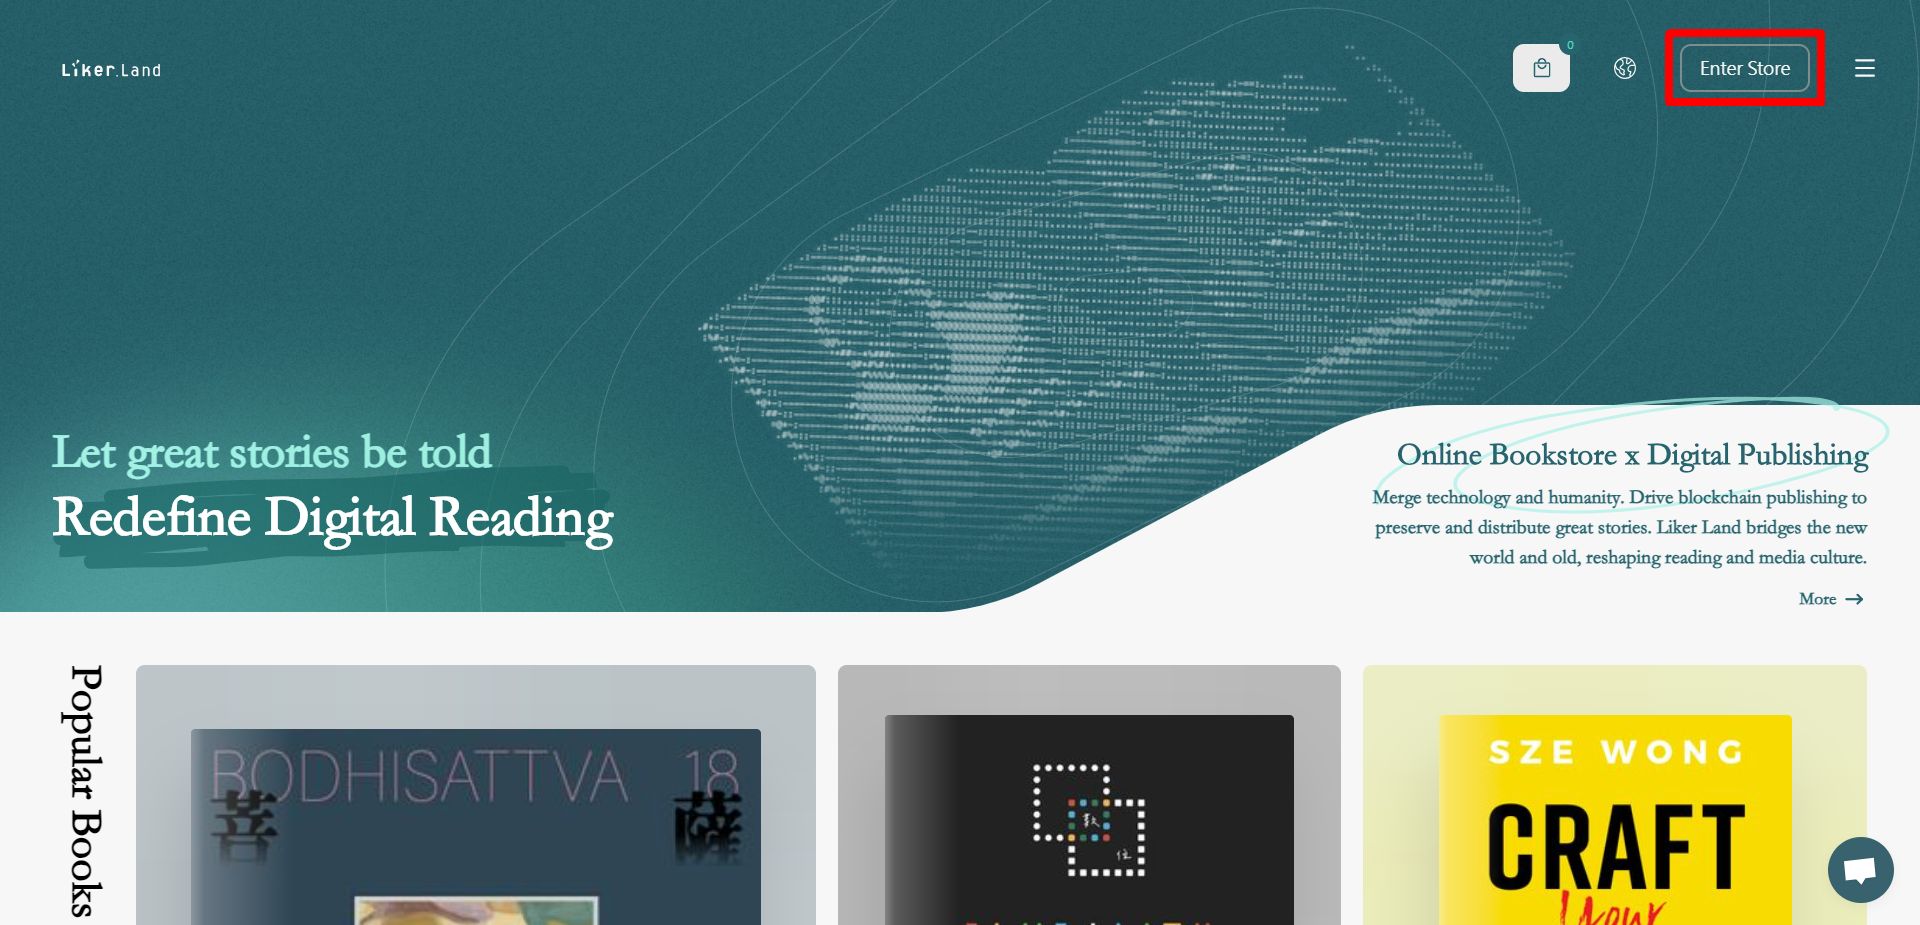
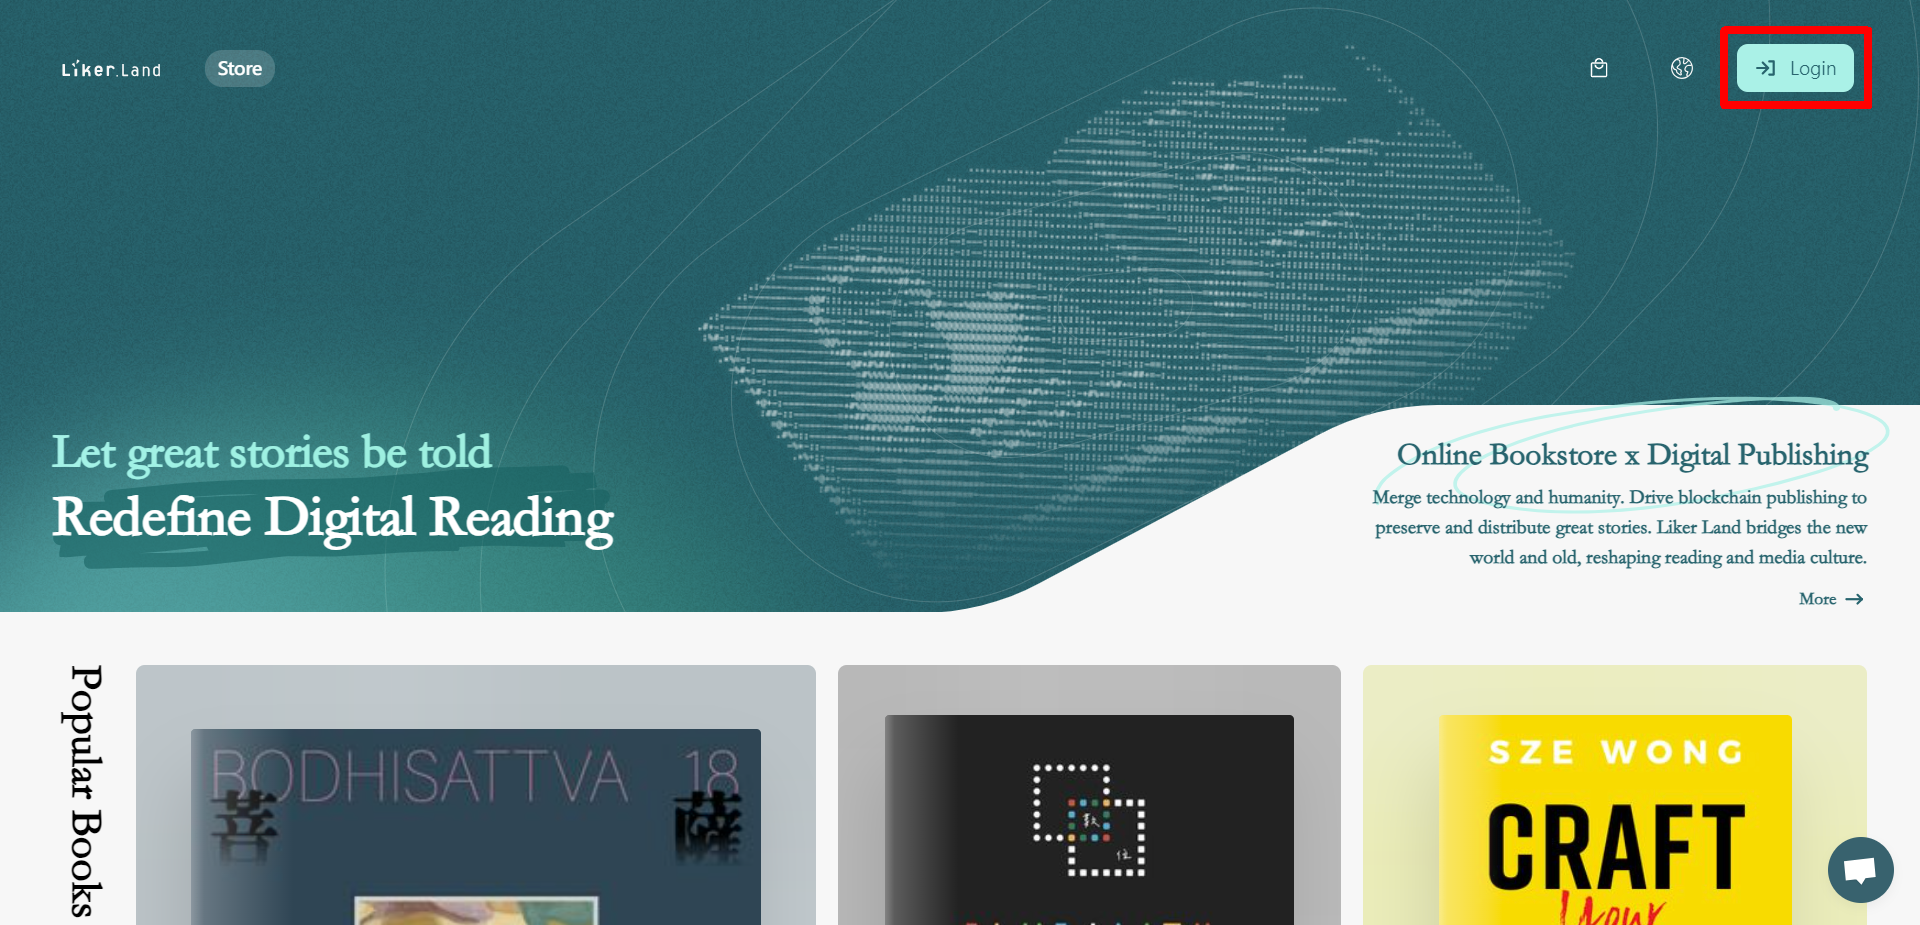
GITBOOK-4672: FAQ: Listing ebooks

Changed region(s): [[0.7812, 0.0303, 1.0, 0.1211], [0.0938, 0.0605, 0.1562, 0.0908]]

diff --git a/depub/transfer-writing-nft.md b/depub/transfer-writing-nft.md
@@ -1,0 +1,79 @@
+---
+description: Transfer NFT is easy!
+---
+
+# Transfer NFT
+
+You can transfer your favorite NFT eBooks or Writing NFTs to others.
+
+Users can leave a message when gifting a NFT eBook or Writing NFT to the recipient. The message is recorded as a transaction memo on the chain and can be stacked during further transfers, forming a “log” of that particular piece of NFT.
+
+Transferring NFT is demonstrated as follows:
+
+## Step 1: Login and transfer
+
+Log in to [Liker Land](https://liker.land/) with your [Email/Social](../user-guide/liker-id/register/), [Keplr](../general-guides/wallet/keplr/), [Cosmostation](../general-guides/wallet/cosmostation/), [Leap](../general-guides/wallet/leap/), [Keplr mobile](../general-guides/wallet/keplr-mobile/), [Cosmostation app](../general-guides/wallet/cosmostation-app/cosmostation-app-deposit-and-send-likecoin.md) or [LikerCoin app](../user-guide/liker-land/download.md)...etc. Then, click on the NFT that needs to be transferred and check how many of them you own. Click "Transfer".
+
+<figure><img src="../.gitbook/assets/NFT Transfer 1-en.png" alt=""><figcaption><p>Click "Transfer" to start transferring NFT</p></figcaption></figure>
+
+## Step 2: Enter the recipient's wallet address and Transfer Message
+
+On the Transfer Your NFT page, enter the wallet address of the recipient and the message you want to include. Then, click "Transfer".
+
+<figure><img src="../.gitbook/assets/NFT Transfer 2-en.png" alt=""><figcaption><p>Enter wallet address and transfer message</p></figcaption></figure>
+
+## Step 3: Confirm the transfer
+
+### Email/Social login
+
+No additional confirmation needed.
+
+### Transfer NFT on Keplr
+
+On the Keplr popup window, click "Approve".
+
+<figure><img src="../.gitbook/assets/NFT Transfer 3-en.png" alt=""><figcaption><p>Keplr window pops up click "Approve" to confirm the transfer</p></figcaption></figure>
+
+### Transfer NFT on Cosmostation
+
+On the Cosmostation popup window, click "Confirm".
+
+<figure><img src="../.gitbook/assets/NFT Transfer 3-en (1).png" alt=""><figcaption><p>Cosmostation window pops up click "Confirm" to confirm the transfer</p></figcaption></figure>
+
+### Transfer NFT on Leap
+
+On the Leap popup window, click "Approve".
+
+<figure><img src="../.gitbook/assets/NFT Transfer 11-en.png" alt=""><figcaption><p>Leap window pops up click "Approve" to confirm the transfer</p></figcaption></figure>
+
+### Transfer NFT on Cosmostation app
+
+A signature request will show up on your phone. Click "Confirm" to complete the transfer.
+
+<figure><img src="../.gitbook/assets/NFT Transfer 4-en (1).png" alt=""><figcaption><p>The desktop computer displays the window of Transfer Your NFT</p></figcaption></figure>
+
+<figure><img src="../.gitbook/assets/NFT Transfer 10.png" alt=""><figcaption><p>Cosmostation app window pops up click "Confirm" to confirm the transfer</p></figcaption></figure>
+
+### Transfer NFT on LikeCoin app
+
+A signature request will show up on your phone. Click "Approve" to complete the transfer.
+
+<figure><img src="../.gitbook/assets/NFT Transfer 9-en.png" alt=""><figcaption><p>The desktop computer displays the window of Transfer Your NFT</p></figcaption></figure>
+
+<figure><img src="../.gitbook/assets/NFT Transfer 6-en.png" alt=""><figcaption><p>LikeCoin app window pops up click "Approve" to confirm the transfer</p></figcaption></figure>
+
+## Step 4: Successful transfer
+
+A pop-up window will appear indicating that the NFT has been successfully transferred. At the same time, the number of NFTs you own will also change. You can also notify the recipient to confirm that they have received the NFT.
+
+<figure><img src="../.gitbook/assets/NFT Transfer 4-en.png" alt=""><figcaption><p>Successful transfer your NFT</p></figcaption></figure>
+
+Users can view the messages sent previously in the Transfer Message field.
+
+<figure><img src="../.gitbook/assets/NFT Transfer 8.png" alt=""><figcaption><p>View the Transfer Message</p></figcaption></figure>
+
+#### Read More
+
+{% content-ref url="collect-writing-nft/batch.md" %}
+[batch.md](collect-writing-nft/batch.md)
+{% endcontent-ref %}

diff --git a/SUMMARY.md b/SUMMARY.md
@@ -87,7 +87,7 @@
 ## 📕 DePub
 
 * [Decentralized Publishing](depub/decentralized-publishing.md)
-* [Writing NFT FAQ](depub/writing-nft.md)
+* [FAQ: Listing ebooks](depub/faq.md)
 * [Publish ebook](depub/nft-book-press/README.md)
   * [Manage ebooks](depub/nft-book-press/nft-book-store.md)
   * [Manage Book Collection](depub/nft-book-press/collection.md)
@@ -96,13 +96,21 @@
   * [ebooks Replenishment](depub/nft-book-press/replenishment.md)
   * [Modify ebook](depub/nft-book-press/modify.md)
   * [Burn ebook](depub/nft-book-press/burn.md)
-  * [FAQ: Listing Liker Land ebooks](depub/nft-book-press/faq.md)
 * [Purchase ebooks](depub/ebook/README.md)
   * [Gift an ebook](depub/ebook/gift.md)
   * [Other ebook Platforms](depub/ebook/book-platform/README.md)
     * [Terminus Press](depub/ebook/book-platform/terminuspress.md)
     * [Dung Foo Kei](depub/ebook/book-platform/dungfookei.md)
     * [BookForest](depub/ebook/book-platform/bookforest.io.md)
+* [NFT Tools](depub/tools.md)
+* [Transfer NFT](depub/transfer-writing-nft.md)
+* [Liker Land web](depub/liker-land-web/README.md)
+  * [Notifications](depub/liker-land-web/notifications.md)
+  * [NFT Details](depub/liker-land-web/nft-details.md)
+  * [My Dashboard](depub/liker-land-web/dashboard.md)
+  * [My Bookshelf](depub/liker-land-web/bookshelf.md)
+  * [Follow Creators](depub/liker-land-web/follow-creators.md)
+* [Writing NFT FAQ](depub/writing-nft.md)
 * [Publish Writing NFT](depub/nft-portal/README.md)
   * [Email/Social](depub/nft-portal/authcore.md)
   * [Keplr](depub/nft-portal/keplr.md)
@@ -119,15 +127,7 @@
   * [One-Click Collect All Writing NFT](depub/collect-writing-nft/collect-all.md)
   * [Dynamic Pricing](depub/collect-writing-nft/dynamic-pricing.md)
   * [NFT Marketplace](depub/collect-writing-nft/nft-marketplace.md)
-* [Transfer NFT](depub/transfer-writing-nft/README.md)
-  * [Batch send NFT to supporters](depub/transfer-writing-nft/batch.md)
-* [Liker Land web](depub/liker-land-web/README.md)
-  * [Notifications](depub/liker-land-web/notifications.md)
-  * [NFT Details](depub/liker-land-web/nft-details.md)
-  * [My Dashboard](depub/liker-land-web/dashboard.md)
-  * [My Bookshelf](depub/liker-land-web/bookshelf.md)
-  * [Follow Creators](depub/liker-land-web/follow-creators.md)
-* [NFT Tools](depub/tools.md)
+  * [Batch send NFT to supporters](depub/collect-writing-nft/batch.md)
 * [ISCN](depub/what-is-iscn/README.md)
   * [What is the relationship between ISCN and IPFS?](depub/what-is-iscn/iscn-ipfs-relationship.md)
   * [What's the point of decentralization to the content ecosystem?](depub/what-is-iscn/benefits.md)

diff --git a/depub/collect-writing-nft/README.md b/depub/collect-writing-nft/README.md
@@ -92,13 +92,9 @@ Learn more about Email/Social login:
 
 ### Step 3: Check your NFT Collection
 
-Go to the upper right corner of the [Liker Land website](https://liker.land/en) and click "Enter Store".
+Go to the upper right corner of the [Liker Land website](https://liker.land/en) and click "Login".
 
-<figure><img src="../../.gitbook/assets/Writing NFT 1-en.png" alt=""><figcaption><p> Click "Enter Store"</p></figcaption></figure>
-
-Click "Login".
-
-<figure><img src="../../.gitbook/assets/Writing NFT 2-en.png" alt=""><figcaption><p>Click "Login"</p></figcaption></figure>
+<figure><img src="../../.gitbook/assets/Writing NFT 1-en.png" alt=""><figcaption><p>Click "Login"</p></figcaption></figure>
 
 A pop-up window appears, click Email/Social to login to Liker Land.
 
@@ -116,13 +112,9 @@ Users who have registered with [Email/Social](../../user-guide/liker-id/register
 
 ### Step 1: Log in to Liker Land
 
-Go to the upper right corner of the [Liker Land website](https://liker.land/en) and click "Enter Store".
+Go to the upper right corner of the [Liker Land website](https://liker.land/en) and click "Login".
 
-<figure><img src="../../.gitbook/assets/Writing NFT 1-en.png" alt=""><figcaption><p> Click "Enter Store"</p></figcaption></figure>
-
-Click "Login".
-
-<figure><img src="../../.gitbook/assets/Writing NFT 2-en.png" alt=""><figcaption><p>Click "Login"</p></figcaption></figure>
+<figure><img src="../../.gitbook/assets/Writing NFT 1-en.png" alt=""><figcaption><p>Click "Login"</p></figcaption></figure>
 
 A pop-up window appears, click Email/Social to login to Liker Land.
 

diff --git a/archive/archive/writing-nft/likecoin-app.md b/archive/archive/writing-nft/likecoin-app.md
@@ -113,7 +113,7 @@ Once done, click "Next".
 {% hint style="info" %}
 Creators can also set their Writing NFT as "not for sale" by filling in the "Number of NFTs to premint" equal to the "Number of NFTs reserved for giveaways." This means that the creator reserves all NFTs for gifting purposes, achieving the effect of setting the NFT as "not for sale," as the issued NFTs are all reserved by the creator and will not circulate in the market. Writing NFTs reserved by the author can be given away for free or sold on the [NFT Marketplace](../../../depub/collect-writing-nft/nft-marketplace.md).
 
-The difference between "Reserved NFT" and "Free Mint" lies in the fact that all minted NFTs are retained and [distributed by the authors](../../../depub/transfer-writing-nft/) themselves in the former, whereas in the latter, collectors mint them on their own and the system automatically sends them out.
+The difference between "Reserved NFT" and "Free Mint" lies in the fact that all minted NFTs are retained and [distributed by the authors](../../../depub/transfer-writing-nft.md) themselves in the former, whereas in the latter, collectors mint them on their own and the system automatically sends them out.
 {% endhint %}
 
 ## Step 4/4: Sign

diff --git a/depub/collect-writing-nft/collect-writing-nft-on-desktop.md b/depub/collect-writing-nft/collect-writing-nft-on-desktop.md
@@ -11,13 +11,9 @@ You can purchase Writing NFT with LikeCoin, which not only supports creators' wo
 
 ## Step 1: Connect Wallet
 
-Go to the upper right corner of the Liker Land website and click "Enter Store".
+Go to the upper right corner of the Liker Land website and click "Login".
 
-<figure><img src="../../.gitbook/assets/Writing NFT 1-en.png" alt=""><figcaption><p> Click "Enter Store"</p></figcaption></figure>
-
-Click "Login".
-
-<figure><img src="../../.gitbook/assets/Writing NFT 2-en.png" alt=""><figcaption><p>Click "Login"</p></figcaption></figure>
+<figure><img src="../../.gitbook/assets/Writing NFT 1-en.png" alt=""><figcaption><p>Click "Login"</p></figcaption></figure>
 
 Or click "Collect Now", "Collect" or the current NFT price and choose [Email/Social](../../user-guide/liker-id/register/), [Keplr](collect-writing-nft-on-desktop.md#keplr), [Cosmostation](collect-writing-nft-on-desktop.md#cosmostation), [Leap](collect-writing-nft-on-desktop.md#leap), [Keplr mobile](collect-writing-nft-on-desktop.md#keplr-mobile), [Cosmostation app](collect-writing-nft-on-desktop.md#cosmostation-app) or [LikeCoin app](collect-writing-nft-on-desktop.md#liker-land-app)...etc to connect wallet, login and purchase Writing NFT.
 

diff --git a/depub/nft-portal/cosmostation-app.md b/depub/nft-portal/cosmostation-app.md
@@ -111,7 +111,7 @@ Once done, click "Next".
 {% hint style="info" %}
 Creators can also set their Writing NFT as "not for sale" by filling in the "Number of NFTs to premint" equal to the "Number of NFTs reserved for giveaways." This means that the creator reserves all NFTs for gifting purposes, achieving the effect of setting the NFT as "not for sale," as the issued NFTs are all reserved by the creator and will not circulate in the market. Writing NFTs reserved by the author can be given away for free or sold on the [NFT Marketplace](../collect-writing-nft/nft-marketplace.md).
 
-The difference between "Reserved NFT" and "Free Mint" lies in the fact that all minted NFTs are retained and [distributed by the authors](../transfer-writing-nft/) themselves in the former, whereas in the latter, collectors mint them on their own and the system automatically sends them out.
+The difference between "Reserved NFT" and "Free Mint" lies in the fact that all minted NFTs are retained and [distributed by the authors](../transfer-writing-nft.md) themselves in the former, whereas in the latter, collectors mint them on their own and the system automatically sends them out.
 {% endhint %}
 
 ## Step 4/4: Sign

diff --git a/depub/nft-portal/authcore.md b/depub/nft-portal/authcore.md
@@ -91,7 +91,7 @@ Once done, click "Next".
 {% hint style="info" %}
 Creators can also set their Writing NFT as "not for sale" by filling in the "Number of NFTs to premint" equal to the "Number of NFTs reserved for giveaways." This means that the creator reserves all NFTs for gifting purposes, achieving the effect of setting the NFT as "not for sale," as the issued NFTs are all reserved by the creator and will not circulate in the market. Writing NFTs reserved by the author can be given away for free or sold on the [NFT Marketplace](../collect-writing-nft/nft-marketplace.md).
 
-The difference between "Reserved NFT" and "Free Mint" lies in the fact that all minted NFTs are retained and [distributed by the authors](../transfer-writing-nft/) themselves in the former, whereas in the latter, collectors mint them on their own and the system automatically sends them out.
+The difference between "Reserved NFT" and "Free Mint" lies in the fact that all minted NFTs are retained and [distributed by the authors](../transfer-writing-nft.md) themselves in the former, whereas in the latter, collectors mint them on their own and the system automatically sends them out.
 {% endhint %}
 
 ## Step 4/4: Sign

diff --git a/depub/nft-portal/cosmostation.md b/depub/nft-portal/cosmostation.md
@@ -95,7 +95,7 @@ Once done, click "Next".
 {% hint style="info" %}
 Creators can also set their Writing NFT as "not for sale" by filling in the "Number of NFTs to premint" equal to the "Number of NFTs reserved for giveaways." This means that the creator reserves all NFTs for gifting purposes, achieving the effect of setting the NFT as "not for sale," as the issued NFTs are all reserved by the creator and will not circulate in the market. Writing NFTs reserved by the author can be given away for free or sold on the [NFT Marketplace](../collect-writing-nft/nft-marketplace.md).
 
-The difference between "Reserved NFT" and "Free Mint" lies in the fact that all minted NFTs are retained and [distributed by the authors](../transfer-writing-nft/) themselves in the former, whereas in the latter, collectors mint them on their own and the system automatically sends them out.
+The difference between "Reserved NFT" and "Free Mint" lies in the fact that all minted NFTs are retained and [distributed by the authors](../transfer-writing-nft.md) themselves in the former, whereas in the latter, collectors mint them on their own and the system automatically sends them out.
 {% endhint %}
 
 ## Step 4/4: Sign

diff --git a/depub/nft-portal/keplr.md b/depub/nft-portal/keplr.md
@@ -95,7 +95,7 @@ Once done, click "Next".
 {% hint style="info" %}
 Creators can also set their Writing NFT as "not for sale" by filling in the "Number of NFTs to premint" equal to the "Number of NFTs reserved for giveaways." This means that the creator reserves all NFTs for gifting purposes, achieving the effect of setting the NFT as "not for sale," as the issued NFTs are all reserved by the creator and will not circulate in the market. Writing NFTs reserved by the author can be given away for free or sold on the [NFT Marketplace](../collect-writing-nft/nft-marketplace.md).
 
-The difference between "Reserved NFT" and "Free Mint" lies in the fact that all minted NFTs are retained and [distributed by the authors](../transfer-writing-nft/) themselves in the former, whereas in the latter, collectors mint them on their own and the system automatically sends them out.
+The difference between "Reserved NFT" and "Free Mint" lies in the fact that all minted NFTs are retained and [distributed by the authors](../transfer-writing-nft.md) themselves in the former, whereas in the latter, collectors mint them on their own and the system automatically sends them out.
 {% endhint %}
 
 ## Step 4/4: Sign

diff --git a/depub/nft-book-press/burn.md b/depub/nft-book-press/burn.md
@@ -12,7 +12,7 @@ If you wish to remove a published ebook, keep in mind that the ebook cannot be e
 
 ## Step 1: Prepare a CSV file
 
-Given that multiple NFTs are typically minted when creating an ebook, using the Liker Land [Transfer Writing NFT](../transfer-writing-nft/) function to send one NFT at a time is inefficient. It's recommended to utilize the LikeCoin ISCN/NFT Tools for batch sending. Begin by preparing a CSV file. Download a sample here:
+Given that multiple NFTs are typically minted when creating an ebook, using the Liker Land [Transfer Writing NFT](../transfer-writing-nft.md) function to send one NFT at a time is inefficient. It's recommended to utilize the LikeCoin ISCN/NFT Tools for batch sending. Begin by preparing a CSV file. Download a sample here:
 
 [https://github.com/likecoin/iscn-nft-tools/blob/master/send-nft/list\_example.csv](https://github.com/likecoin/iscn-nft-tools/blob/master/send-nft/list\_example.csv)
 

diff --git a/depub/collect-writing-nft/nft-marketplace.md b/depub/collect-writing-nft/nft-marketplace.md
@@ -34,6 +34,6 @@ Find specific NFTs using the [NFT Class ID](../liker-land-web/nft-details.md#nft
 
 ### [**Tools**](https://likecoin.github.io/likecoin-nft-marketplace/tools)
 
-[**Send NFTs**](https://likecoin.github.io/likecoin-nft-marketplace/tools/send) for easy mass distribution, see the guide for [Batch send NFT to supporters](../transfer-writing-nft/#batch-send-nft-to-supporters).
+[**Send NFTs**](https://likecoin.github.io/likecoin-nft-marketplace/tools/send) for easy mass distribution, see the guide for [Batch send NFT to supporters](../transfer-writing-nft.md#batch-send-nft-to-supporters).
 
 The current NFT Marketplace interface is a minimal viable product designed to achieve basic functions without any UX/UI design. Feel free to try it out and provide your feedback on the [LikeCoin Discord](https://discord.gg/likecoin).

diff --git a/depub/nft-book-press/README.md b/depub/nft-book-press/README.md
@@ -5,7 +5,7 @@ description: Publish eook with LikeCoin NFT Book Press
 # Publish ebook
 
 {% hint style="info" %}
-Before publishing, you can refer to the [FAQ: Listing Liker Land ebooks](faq.md)
+Before publishing, you can refer to the [FAQ: Listing Liker Land ebooks](../faq.md)
 {% endhint %}
 
 {% hint style="info" %}
@@ -27,7 +27,7 @@ and other follow up actions:
 8. [ebooks Replenishment](replenishment.md)
 9. [Modify ebook](modify.md)
 10. [Burn ebook](burn.md)
-11. [Transfer ebook or Batch send NFT to more than one wallet](../transfer-writing-nft/)
+11. [Transfer ebook or Batch send NFT to more than one wallet](../transfer-writing-nft.md)
 12. [Import EPUB files to various ereaders](./#ereader)
 13. [Creator’s Introduction on Liker Land BookStore](../../user-guide/liker-id/edit-avatar-displayname.md)
 
